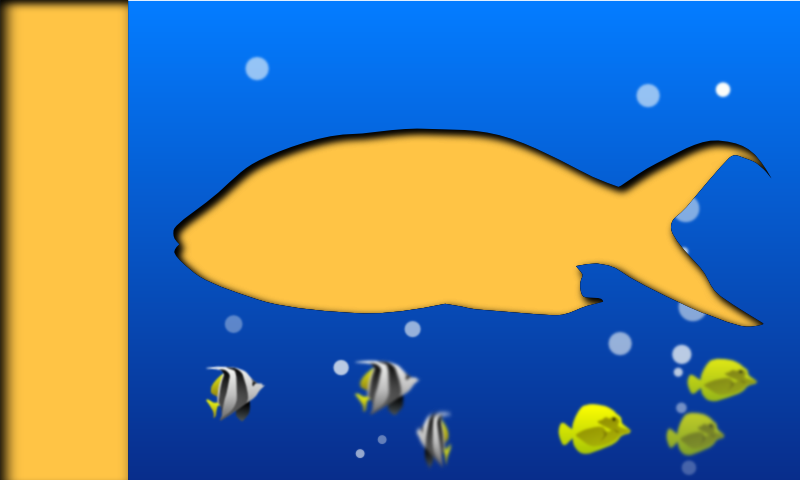
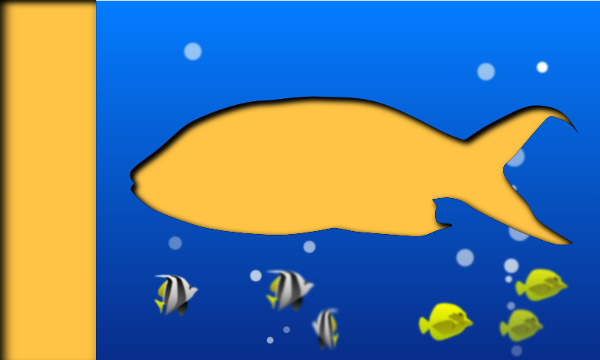
Changes: Working redfish board

Changed region(s): [[0.15, 0.0, 0.18, 1.0]]

diff --git a/qml/KidPuzzleSymbian/BoardRedfish.qml b/qml/KidPuzzleSymbian/BoardRedfish.qml
@@ -6,22 +6,22 @@ Board {
 
     Bit {
         source: "redfish_mid.png"
-        dockX: UI.leftMargin + 15; dockY:10; boardX: UI.leftMargin + 310; boardY: UI.screenHeight-353; dockW: 90; dockH: 90
+        dockX: UI.leftMargin + 10; dockY:5; boardX: UI.leftMargin + 230; boardY: 95; dockW: 65; dockH: 65
     }
     Bit {
         source: "redfish_tail.png"
-        dockX: UI.leftMargin + 15; dockY: 110; boardX: UI.leftMargin + 604; boardY: UI.screenHeight-339; dockW: 90; dockH: 90
+        dockX: UI.leftMargin + 10; dockY: 80; boardX: UI.leftMargin + 453; boardY: 106; dockW: 65; dockH: 65
     }
     Bit {
         source: "redfish_head.png"
-        dockX: UI.leftMargin + 15; dockY: 210; boardX: UI.leftMargin + 171; boardY: UI.screenHeight-339; dockW: 90; dockH: 90
+        dockX: UI.leftMargin + 10; dockY: 155; boardX: UI.leftMargin + 128; boardY: 105; dockW: 65; dockH: 65
     }
     Bit {
         source: "redfish_tailsection.png"
-        dockX: UI.leftMargin + 15; dockY: 310; boardX: UI.leftMargin + 453; boardY: UI.screenHeight-352; dockW: 90; dockH: 90
+        dockX: UI.leftMargin + 10; dockY: 230; boardX: UI.leftMargin + 339; boardY: 96; dockW: 65; dockH: 65
     }
     Bit {
         source: "redfish_fin.png"
-        dockX: UI.leftMargin + 10; dockY: 410; boardX: UI.leftMargin + 430; boardY: UI.screenHeight-219; dockW: 100; dockH: 40
+        dockX: UI.leftMargin + 2; dockY: 305; boardX: UI.leftMargin + 322; boardY: 197; dockW: 100; dockH: 40
     }
 }

diff --git a/qml/KidPuzzleSymbian/BoardSimplePuppy.qml b/qml/KidPuzzleSymbian/BoardSimplePuppy.qml
@@ -20,7 +20,7 @@ Board {
     }
     Bit {
         source: "simple_puppy_front.png"
-        dockX: UI.leftMargin + 20; dockY:275; boardX: UI.leftMargin + 291; boardY: 61; dockW: 68; dockH: 80
+        dockX: UI.leftMargin + 20; dockY:275; boardX: UI.leftMargin + 291; boardY: 60; dockW: 68; dockH: 80
         z: 3
     }
 
